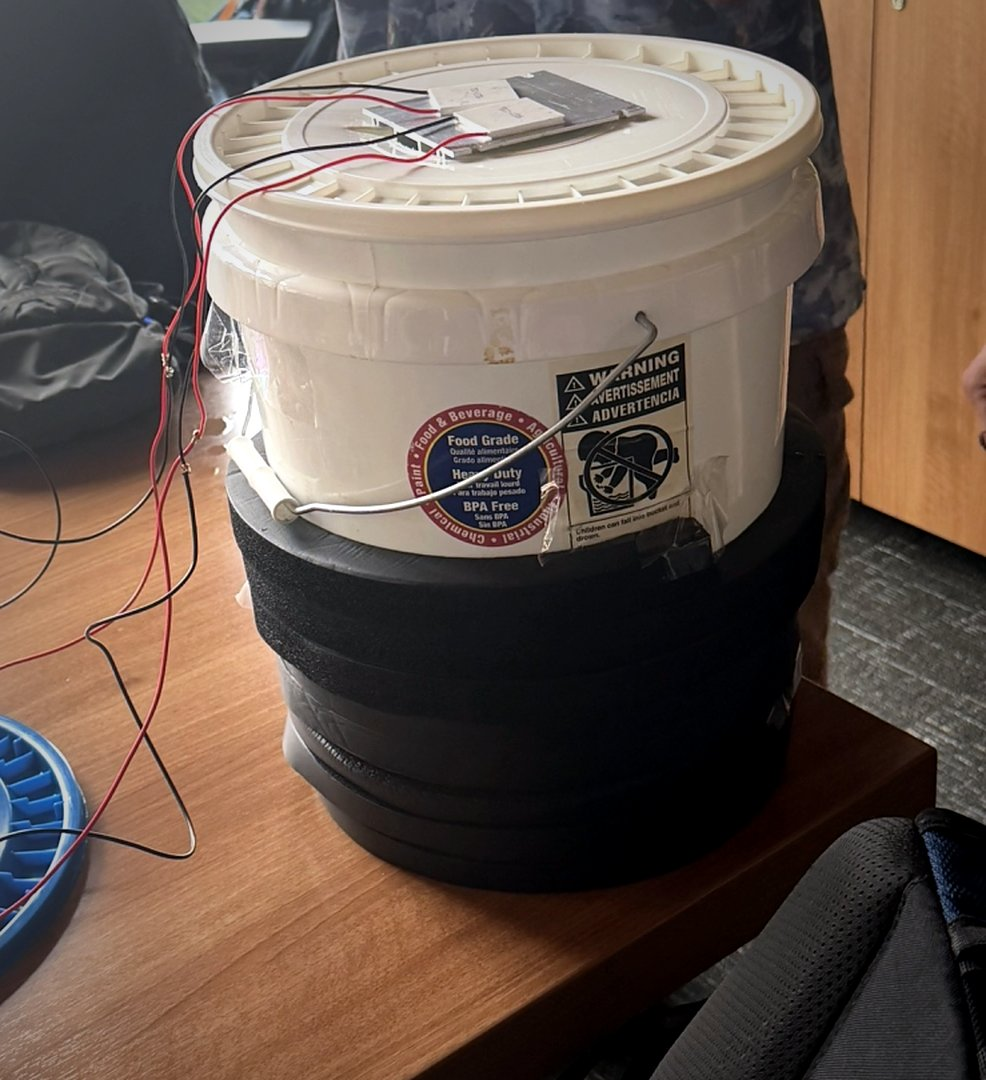
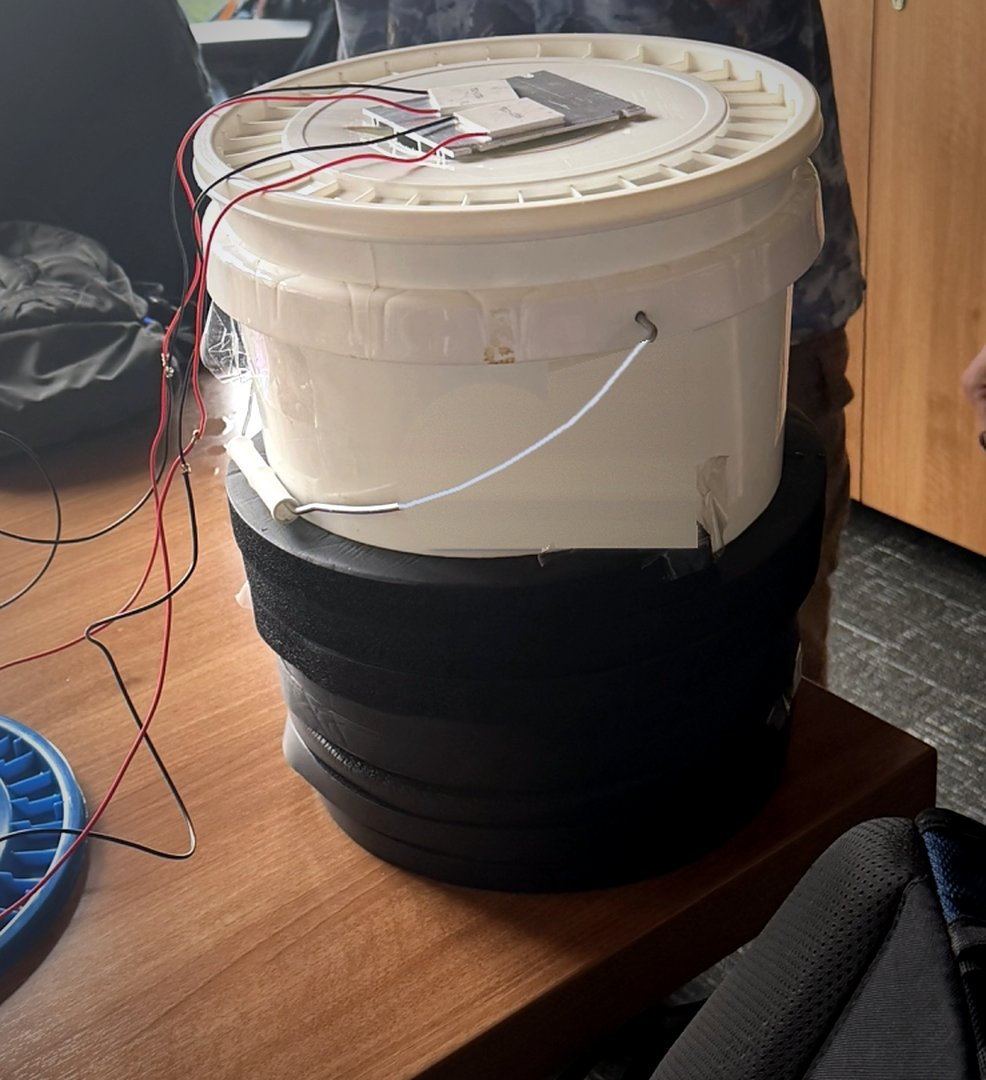
Remove stickers from Templates bucket photo
Claude-Session: https://claude.ai/code/session_01ATWJJ8MvEn9Ay1ZMuxNdpa

Changed region(s): [[0.3955, 0.3056, 0.7302, 0.5194]]

diff --git a/index.html b/index.html
@@ -209,7 +209,7 @@
 
     <article class="project">
       <div class="media-stack">
-        <figure class="media natural"><img src="img/thermal-platform.jpg" alt="Hot/cold plate prototype: Peltier modules on the lid of an insulated liquid reservoir" loading="lazy"><figcaption class="mono">The build: Peltier plates on top, liquid-cooled reservoir below</figcaption></figure>
+        <figure class="media natural"><img src="img/thermal-platform.jpg?v=2" alt="Hot/cold plate prototype: Peltier modules on the lid of an insulated liquid reservoir" loading="lazy"><figcaption class="mono">The build: Peltier plates on top, liquid-cooled reservoir below</figcaption></figure>
         <figure class="media natural"><img src="img/templates-concept.jpg" alt="A student's hand-drawn concept for Templates, plates that keep food hot or cold" loading="lazy"><figcaption class="mono">The original concept, drawn by a K-8 student</figcaption></figure>
       </div>
       <div>
